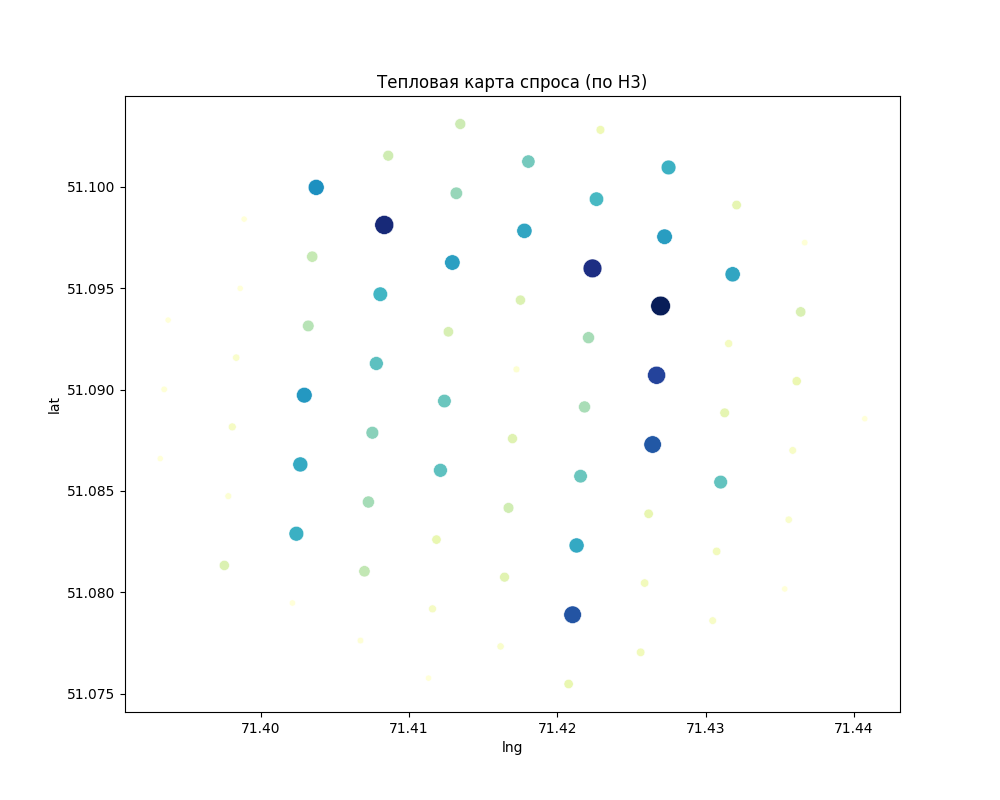
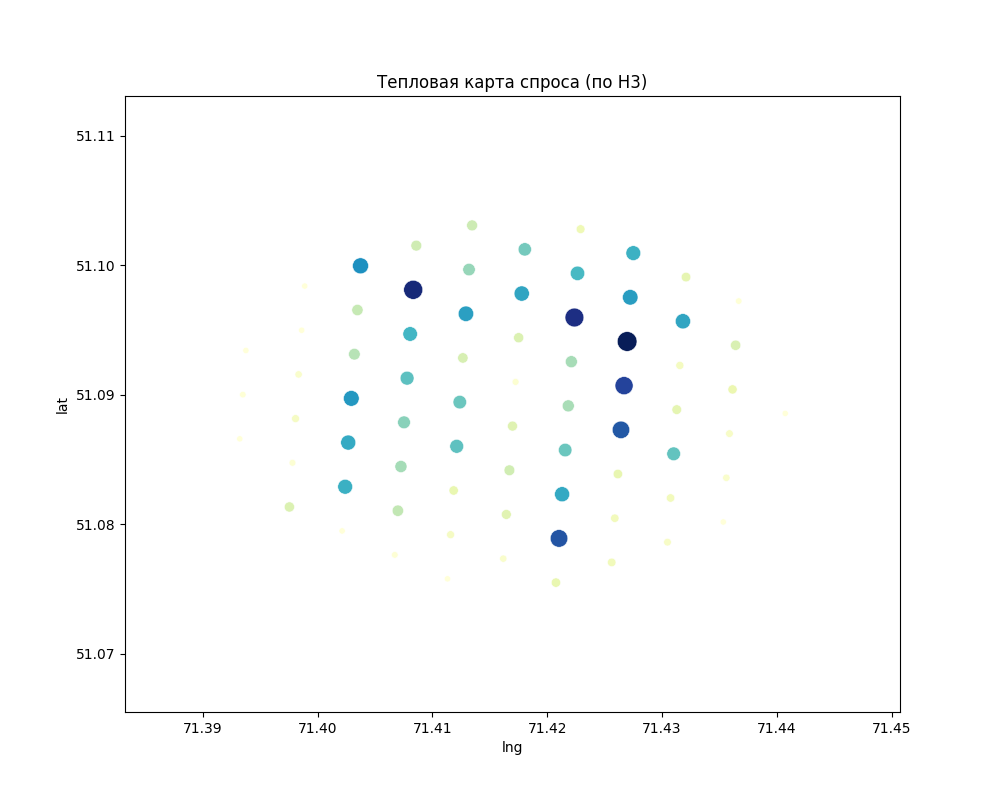
Heatmap on real map ADDED

diff --git a/data/processed/demand_heatmap_MAP.html b/data/processed/demand_heatmap_MAP.html
@@ -1,0 +1,122 @@
+<!DOCTYPE html>
+<html>
+<head>
+    
+    <meta http-equiv="content-type" content="text/html; charset=UTF-8" />
+    <script src="https://cdn.jsdelivr.net/npm/leaflet@1.9.3/dist/leaflet.js"></script>
+    <script src="https://code.jquery.com/jquery-3.7.1.min.js"></script>
+    <script src="https://cdn.jsdelivr.net/npm/bootstrap@5.2.2/dist/js/bootstrap.bundle.min.js"></script>
+    <script src="https://cdnjs.cloudflare.com/ajax/libs/Leaflet.awesome-markers/2.0.2/leaflet.awesome-markers.js"></script>
+    <link rel="stylesheet" href="https://cdn.jsdelivr.net/npm/leaflet@1.9.3/dist/leaflet.css"/>
+    <link rel="stylesheet" href="https://cdn.jsdelivr.net/npm/bootstrap@5.2.2/dist/css/bootstrap.min.css"/>
+    <link rel="stylesheet" href="https://netdna.bootstrapcdn.com/bootstrap/3.0.0/css/bootstrap-glyphicons.css"/>
+    <link rel="stylesheet" href="https://cdn.jsdelivr.net/npm/@fortawesome/fontawesome-free@6.2.0/css/all.min.css"/>
+    <link rel="stylesheet" href="https://cdnjs.cloudflare.com/ajax/libs/Leaflet.awesome-markers/2.0.2/leaflet.awesome-markers.css"/>
+    <link rel="stylesheet" href="https://cdn.jsdelivr.net/gh/python-visualization/folium/folium/templates/leaflet.awesome.rotate.min.css"/>
+    
+            <meta name="viewport" content="width=device-width,
+                initial-scale=1.0, maximum-scale=1.0, user-scalable=no" />
+            <style>
+                #map_3e92b6657b122da28f7b2c619ec202d7 {
+                    position: relative;
+                    width: 100.0%;
+                    height: 100.0%;
+                    left: 0.0%;
+                    top: 0.0%;
+                }
+                .leaflet-container { font-size: 1rem; }
+            </style>
+
+            <style>html, body {
+                width: 100%;
+                height: 100%;
+                margin: 0;
+                padding: 0;
+            }
+            </style>
+
+            <style>#map {
+                position:absolute;
+                top:0;
+                bottom:0;
+                right:0;
+                left:0;
+                }
+            </style>
+
+            <script>
+                L_NO_TOUCH = false;
+                L_DISABLE_3D = false;
+            </script>
+
+        
+    <script src="https://cdn.jsdelivr.net/gh/python-visualization/folium@main/folium/templates/leaflet_heat.min.js"></script>
+</head>
+<body>
+    
+    
+            <div class="folium-map" id="map_3e92b6657b122da28f7b2c619ec202d7" ></div>
+        
+</body>
+<script>
+    
+    
+            var map_3e92b6657b122da28f7b2c619ec202d7 = L.map(
+                "map_3e92b6657b122da28f7b2c619ec202d7",
+                {
+                    center: [51.089307773417126, 71.41645036361989],
+                    crs: L.CRS.EPSG3857,
+                    ...{
+  "zoom": 12,
+  "zoomControl": true,
+  "preferCanvas": false,
+}
+
+                }
+            );
+
+            
+
+        
+    
+            var tile_layer_7e486460104910bdbf274a0b40326247 = L.tileLayer(
+                "https://tile.openstreetmap.org/{z}/{x}/{y}.png",
+                {
+  "minZoom": 0,
+  "maxZoom": 19,
+  "maxNativeZoom": 19,
+  "noWrap": false,
+  "attribution": "\u0026copy; \u003ca href=\"https://www.openstreetmap.org/copyright\"\u003eOpenStreetMap\u003c/a\u003e contributors",
+  "subdomains": "abc",
+  "detectRetina": false,
+  "tms": false,
+  "opacity": 1,
+}
+
+            );
+        
+    
+            tile_layer_7e486460104910bdbf274a0b40326247.addTo(map_3e92b6657b122da28f7b2c619ec202d7);
+        
+    
+            map_3e92b6657b122da28f7b2c619ec202d7.fitBounds(
+                [[51.07548561271937, 71.3932100598857], [51.10309045868613, 71.44073622428967]],
+                {}
+            );
+        
+    
+            var heat_map_b8d6cbc24f0d146cc7f34fb1c5a62f2a = L.heatLayer(
+                [[51.09411955140756, 71.42696191448873, 62128.0], [51.09811377988043, 71.40832374242319, 57829.0], [51.09597196279557, 71.42236979565646, 56470.0], [51.09070524183249, 71.42669304428134, 51621.0], [51.07890009562189, 71.4210273372971, 48345.0], [51.08729089571497, 71.42642421094251, 47608.0], [51.0999654374805, 71.40373056448496, 38862.0], [51.089722428029646, 71.40292874873074, 37173.0], [51.09753382441633, 71.42723082157227, 36163.0], [51.09626193147928, 71.41291657939298, 35742.0], [51.09568123153006, 71.4318229041873, 34652.0], [51.09782418346572, 71.41777733574318, 34638.0], [51.082314542066996, 71.42129575534258, 33758.0], [51.08630801846726, 71.40266155011204, 33657.0], [51.08289357240528, 71.40239438813049, 32450.0], [51.10094806083489, 71.42749976553952, 32230.0], [51.09469947066917, 71.40805612879625, 30969.0], [51.0993862265953, 71.42263839780574, 30198.0], [51.09128512489722, 71.40778855186932, 27517.0], [51.08601886642343, 71.41211293371889, 27373.0], [51.08543827531041, 71.43101537902396, 26701.0], [51.089433257976275, 71.41238077887502, 25897.0], [51.0857289520308, 71.4215642101937, 25745.0], [51.10123843803067, 71.4180456329087, 24701.0], [51.08787074258846, 71.40752101163484, 22252.0], [51.09967621338166, 71.41318453476991, 20828.0], [51.08445632376679, 71.4072535080853, 19215.0], [51.092557662419, 71.42210123034307, 18937.0], [51.08914332548944, 71.42183270185801, 18922.0], [51.093136801068574, 71.40319598399411, 17233.0], [51.08104186845608, 71.40698604121317, 16071.0], [51.09655113756014, 71.40346325590967, 15717.0], [51.10309045868613, 71.4134525269022, 14413.0], [51.10152805250711, 71.40859139275767, 14009.0], [51.08416679957084, 71.41670451496181, 13597.0], [51.09284761300285, 71.41264866076388, 12293.0], [51.093828447972825, 71.43641464562984, 12030.0], [51.08133061237211, 71.39753557389548, 11598.0], [51.09440989231337, 71.41750907537329, 11412.0], [51.087581200342036, 71.41697266499015, 10880.0], [51.0807523623078, 71.41643640169887, 10416.0], [51.088852630590154, 71.43128451716709, 9676.0], [51.099095477142455, 71.43209215307955, 9280.0], [51.08387651307892, 71.42615541446466, 8842.0], [51.07548561271937, 71.42075895604972, 8581.0], [51.08260443836819, 71.41184512528793, 8559.0], [51.0904141566232, 71.4361451288263, 8172.0], [51.102800453794295, 71.42290703679849, 6812.0], [51.07704763834675, 71.42561793206166, 5963.0], [51.08202388352266, 71.43074627778203, 5617.0], [51.08046209394821, 71.42588665484023, 5596.0], [51.09226694933799, 71.43155369221901, 4641.0], [51.07918997383449, 71.41157735357463, 4276.0], [51.0881595224333, 71.39806925138919, 4246.0], [51.0786094552508, 71.43047721343375, 3482.0], [51.08699982872832, 71.43587564897935, 3436.0], [51.08358546431209, 71.43560620608139, 2669.0], [51.091573922710666, 71.3983361450276, 2619.0], [51.077337888576814, 71.41616832519381, 2437.0], [51.0909955645975, 71.41724085179146, 1526.0], [51.08474508564582, 71.39780239434764, 1265.0], [51.07762737668023, 71.40671861101089, 827.0], [51.09001083562864, 71.39347661193783, 634.0], [51.09724270275332, 71.43668419939759, 597.0], [51.07947908986764, 71.40212726277856, 240.0], [51.08017106339837, 71.43533680012487, 168.0], [51.094988286454026, 71.39860307527043, 97.0], [51.07577547284619, 71.41130961857141, 89.0], [51.08659640814139, 71.3932100598857, 58.0], [51.0984026136395, 71.39887004212518, 27.0], [51.0885611732995, 71.44073622428967, 4.0], [51.09342522659524, 71.39374320054655, 1.0]],
+                {
+  "minOpacity": 0.5,
+  "maxZoom": 1,
+  "radius": 15,
+  "blur": 10,
+}
+            );
+        
+    
+            heat_map_b8d6cbc24f0d146cc7f34fb1c5a62f2a.addTo(map_3e92b6657b122da28f7b2c619ec202d7);
+        
+</script>
+</html>

diff --git a/src/data/h3_analyze.py b/src/data/h3_analyze.py
@@ -3,6 +3,9 @@ import pandas as pd
 import seaborn as sns
 import matplotlib.pyplot as plt
 import os
+import h3
+import folium
+from folium.plugins import HeatMap
 
 # Алгоритм анализа H3
 
@@ -21,7 +24,7 @@ def identify_popular_routes(df):
     popular_routes = df.groupby(['start_h3_index', 'end_h3_index']).size().reset_index(name='count')
     return popular_routes.sort_values(by='count', ascending=False)
 
-def plot_heatmap(df, save_path=None):
+def plot_heatmap_scatterplot(df, save_path=None):
     # Aggregate demand by H3 cell
     h3_counts = df['h3_index'].value_counts().reset_index()
     h3_counts.columns = ['h3_index', 'count']
@@ -36,10 +39,36 @@ def plot_heatmap(df, save_path=None):
         palette='YlGnBu', legend=False, sizes=(20, 200)
     )
     plt.title('Тепловая карта спроса (по H3)')
+    plt.xlim(h3_counts['lng'].min() - 0.01, h3_counts['lng'].max() + 0.01)
+    plt.ylim(h3_counts['lat'].min() - 0.01, h3_counts['lat'].max() + 0.01)
     if save_path:
         plt.savefig(save_path)
         print(f"Heatmap saved to {save_path}")
     plt.show()
+
+
+def plot_heatmap_on_map(df, save_path=None):
+    h3_counts = df['h3_index'].value_counts().reset_index()
+    h3_counts.columns = ['h3_index', 'count']
+    h3_counts['lat'] = h3_counts['h3_index'].apply(lambda h: h3.cell_to_latlng(h)[0])
+    h3_counts['lng'] = h3_counts['h3_index'].apply(lambda h: h3.cell_to_latlng(h)[1])
+    # Center and zoom based on data
+    center_lat = h3_counts['lat'].mean()
+    center_lng = h3_counts['lng'].mean()
+    m = folium.Map(location=[center_lat, center_lng], zoom_start=12)
+
+    # Optionally, restrict map bounds to your data
+    sw = [h3_counts['lat'].min(), h3_counts['lng'].min()]
+    ne = [h3_counts['lat'].max(), h3_counts['lng'].max()]
+    m.fit_bounds([sw, ne])
+
+    heat_data = h3_counts[['lat', 'lng', 'count']].values.tolist()
+    HeatMap(heat_data, radius=15, blur=10, max_zoom=1).add_to(m)
+
+    if save_path:
+        m.save(save_path)
+        print(f"Interactive heatmap saved to {save_path}")
+    return m
 
 def optimize_driver_distribution(df, total_drivers=100):
     demand = df.groupby('h3_index').size().reset_index(name='demand')

diff --git a/main.py b/main.py
@@ -4,7 +4,7 @@ import os
 from models.H3model import H3model
 from src.data.load_data import load_data
 from src.data.preprocess import (preprocess_data)
-from src.data.h3_analyze import (analyze_geodata, identify_popular_routes, plot_heatmap, optimize_driver_distribution, safety_scenarios)
+from src.data.h3_analyze import (analyze_geodata, identify_popular_routes, plot_heatmap_scatterplot, optimize_driver_distribution, safety_scenarios, plot_heatmap_on_map)
 from sklearn.model_selection import *
 import torch.optim as optim
 
@@ -53,4 +53,7 @@ for epoch in range(num_epochs):
 processed_info_dir = "data/processed"
 df.to_csv(os.path.join(processed_info_dir, "processed_data.csv"), index=False)
 print("Processed data was saved to data/processed/processed_data.csv")
-plot_heatmap(df, save_path=os.path.join(processed_info_dir, "demand_heatmap.png"))
+plot_heatmap_scatterplot(df, save_path=os.path.join(processed_info_dir, "demand_heatmap.png"))
+plot_heatmap_on_map(df, save_path=os.path.join(processed_info_dir, "demand_heatmap_MAP.html"))
+
+optimize_driver_distribution(df, 100)
